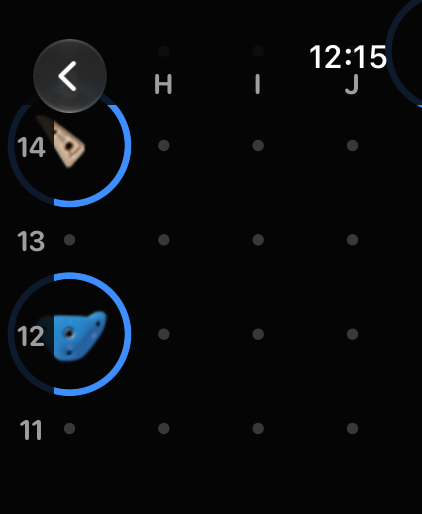
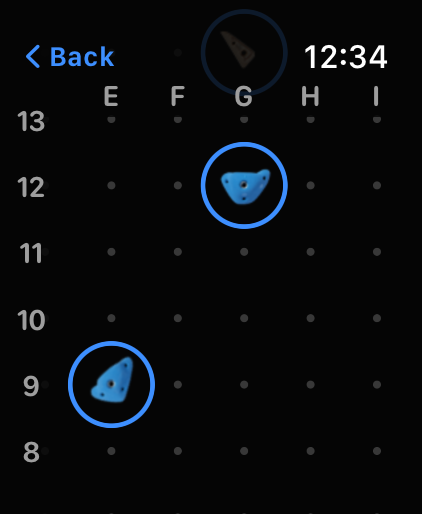
Preview: centred board, pan past edges, small Back on the clock row
- The board is centred at full view, with a little room at the bottom.
- Drawing and panning now use the same (full-screen) size; the pan limit
  had been computed from the smaller safe-area size, cutting off column K.
- Pan 20 pt past every edge so corner holds clear the rounded screen.
- The round back button is replaced by a small "< Back" on the clock row.

Claude-Session: https://claude.ai/code/session_01UNtzuB1Yx7wH9bXjFYQqCe

diff --git a/Moon Dance Watch App/Views/Preview/ProblemPreviewView.swift b/Moon Dance Watch App/Views/Preview/ProblemPreviewView.swift
@@ -5,52 +5,54 @@ import SwiftUI
 /// problem's holds, each ringed in its role's color (green start, blue hand,
 /// red finish), with A–K and 1–18 around the edge.
 ///
-/// Turn the Digital Crown to zoom (about the middle of the screen), drag to pan,
-/// double-tap to see the whole board again.
+/// Turn the Digital Crown to zoom (about the middle of the screen), drag to pan
+/// (a little past every edge, so corners clear the screen's rounding), double-tap
+/// to see the whole board again. A small "Back" on the clock's line goes back.
 struct ProblemPreviewView: View {
     let problemID: String
 
     @Environment(\.modelContext) private var context
+    @Environment(Router.self) private var router
     @State private var problem: Problem?
     @State private var zoom = 1.0
     @State private var centre = PreviewGeometry.boardCentre
     @State private var dragStart: CGPoint?
-    @State private var size = CGSize(width: 1, height: 1)
     @FocusState private var crownFocused: Bool
 
-    private var geometry: PreviewGeometry {
-        PreviewGeometry(size: size, zoom: zoom, centre: centre)
-    }
-
     var body: some View {
-        Canvas { context, size in
-            guard let problem else { return }
-            let geometry = PreviewGeometry(size: size, zoom: zoom, centre: centre)
-            Self.draw(problem, geometry: geometry, in: &context)
+        // One size (the whole screen) for drawing, panning and zoom limits.
+        GeometryReader { proxy in
+            let size = proxy.size
+            Canvas { context, canvasSize in
+                guard let problem else { return }
+                let geometry = PreviewGeometry(size: canvasSize, zoom: zoom, centre: centre)
+                Self.draw(problem, geometry: geometry, in: &context)
+            }
+            .contentShape(Rectangle())
+            .gesture(pan(size: size))
+            .onTapGesture(count: 2) {
+                withAnimation(.snappy) {
+                    zoom = 1
+                    centre = PreviewGeometry.boardCentre
+                }
+            }
+            .onChange(of: zoom) { centre = PreviewGeometry(size: size, zoom: zoom, centre: centre).centre }
+            .accessibilityElement()
+            .accessibilityIdentifier("problemPreview")
+            .accessibilityLabel(problem.map { "Hold pictures for \($0.name)" } ?? "Problem preview")
+            .accessibilityValue("Zoom \(Int((zoom * 100).rounded())) percent")
+            .accessibilityHint("Turn the Digital Crown to zoom, drag to look around, double-tap to reset")
         }
         .background(Theme.background)
         .ignoresSafeArea()
-        .onGeometryChange(for: CGSize.self) { $0.size } action: { size = $0 }
-        .contentShape(Rectangle())
-        .gesture(pan)
-        .onTapGesture(count: 2) {
-            withAnimation(.snappy) {
-                zoom = 1
-                centre = PreviewGeometry.boardCentre
-            }
-        }
+        .overlay(alignment: .topLeading) { backButton }
+        .toolbar(.hidden, for: .navigationBar)
         .focusable()
         .focused($crownFocused)
         .focusEffectDisabled()
         .digitalCrownRotation($zoom, from: PreviewGeometry.zoomRange.lowerBound,
                               through: PreviewGeometry.zoomRange.upperBound,
                               sensitivity: .low, isContinuous: false, isHapticFeedbackEnabled: false)
-        .onChange(of: zoom) { centre = geometry.clamped(centre) }
-        .accessibilityElement()
-        .accessibilityIdentifier("problemPreview")
-        .accessibilityLabel(problem.map { "Hold pictures for \($0.name)" } ?? "Problem preview")
-        .accessibilityValue("Zoom \(Int((zoom * 100).rounded())) percent")
-        .accessibilityHint("Turn the Digital Crown to zoom, drag to look around, double-tap to reset")
         .onAppear {
             problem = SessionModel.problem(id: problemID, context: context)
             crownFocused = true
@@ -63,9 +65,33 @@ struct ProblemPreviewView: View {
         }
     }
 
-    private var pan: some Gesture {
+    /// Small text on the clock's line instead of the big round back button, so the
+    /// board gets the room. Lines up with the problem name on Session.
+    private var backButton: some View {
+        Button {
+            router.pop()
+        } label: {
+            HStack(spacing: 2) {
+                Image(systemName: "chevron.left")
+                Text("Back")
+            }
+            .font(.footnote.weight(.semibold))
+            .foregroundStyle(Theme.blue)
+            .frame(minHeight: SessionView.Header.height)
+            .padding(.trailing, 8)
+            .contentShape(Rectangle())
+        }
+        .buttonStyle(.plain)
+        .padding(.top, SessionView.Header.top)
+        .padding(.leading, SessionView.Header.leading - 4)
+        .ignoresSafeArea()
+        .accessibilityIdentifier("previewBack")
+    }
+
+    private func pan(size: CGSize) -> some Gesture {
         DragGesture(minimumDistance: 4)
             .onChanged { value in
+                let geometry = PreviewGeometry(size: size, zoom: zoom, centre: centre)
                 let start = dragStart ?? geometry.centre
                 dragStart = start
                 let scale = geometry.scale
@@ -153,14 +179,19 @@ struct ProblemPreviewView: View {
 nonisolated struct PreviewGeometry {
     static let gutterLeft = 1.0
     static let gutterTop = 1.0
-    /// Space on the right and bottom so rings on column K and row 1 aren't cut off.
+    /// Space on the right and bottom so rings on column K and row 1 fit.
     static let margin = 0.25
     static let boardWidth = Double(GridPosition.columns) + gutterLeft + margin
     static let boardHeight = Double(GridPosition.rows) + gutterTop + margin
     static let boardCentre = CGPoint(x: boardWidth / 2, y: boardHeight / 2)
     static let zoomRange: ClosedRange<Double> = 1...4
-    /// Room left at the top for the back button and clock, in points.
-    static let topInset: CGFloat = 30
+    /// Room left at the top for Back and the clock, in points.
+    static let topInset: CGFloat = 36
+    /// Room at the bottom, so row 1 sits clear of the screen's rounded corners.
+    static let bottomInset: CGFloat = 8
+    /// How far (in points) you can pan past each edge of the board, so holds in the
+    /// corners can be moved clear of the screen's rounding.
+    static let overscroll: CGFloat = 20
     /// Ring radius, in cells.
     static let ringRadius = 0.62
 
@@ -178,7 +209,8 @@ nonisolated struct PreviewGeometry {
 
     /// The area the whole board fits in at zoom 1: below the clock line.
     var viewport: CGRect {
-        CGRect(x: 0, y: Self.topInset, width: size.width, height: max(1, size.height - Self.topInset))
+        CGRect(x: 0, y: Self.topInset, width: size.width,
+               height: max(1, size.height - Self.topInset - Self.bottomInset))
     }
 
     var fitScale: CGFloat { min(viewport.width / Self.boardWidth, viewport.height / Self.boardHeight) }
@@ -195,19 +227,18 @@ nonisolated struct PreviewGeometry {
                     boardY: Self.gutterTop + CGFloat(GridPosition.rows - row) + 0.5)
     }
 
-    /// Keeps the board on screen: where it's wider than the screen, no further
-    /// than its edge. Where it fits across, it sits against the right edge, clear
-    /// of the round back button at the top left.
+    /// Keeps the board on screen. Along an axis where it's bigger than the
+    /// viewport you can pan until its edge meets the viewport's edge; where it fits,
+    /// it stays centred. Either way you can go `overscroll` points further.
     func clamped(_ point: CGPoint) -> CGPoint {
-        let halfWidth = viewport.width / (2 * scale)
-        let halfHeight = viewport.height / (2 * scale)
-        let x = Self.boardWidth <= 2 * halfWidth
-            ? Self.boardWidth - halfWidth
-            : min(max(point.x, halfWidth), Self.boardWidth - halfWidth)
-        let y = Self.boardHeight <= 2 * halfHeight
-            ? Self.boardHeight / 2
-            : min(max(point.y, halfHeight), Self.boardHeight - halfHeight)
-        return CGPoint(x: x, y: y)
+        let over = Self.overscroll / scale
+        func axis(_ value: CGFloat, board: CGFloat, half: CGFloat) -> CGFloat {
+            let low = min(half, board / 2) - over
+            let high = max(board - half, board / 2) + over
+            return min(max(value, low), high)
+        }
+        return CGPoint(x: axis(point.x, board: Self.boardWidth, half: viewport.width / (2 * scale)),
+                       y: axis(point.y, board: Self.boardHeight, half: viewport.height / (2 * scale)))
     }
 
     /// Where the column letters go: in their gutter, or pinned under the clock line

diff --git a/Moon Dance Watch AppTests/PreviewTests.swift b/Moon Dance Watch AppTests/PreviewTests.swift
@@ -51,42 +51,52 @@ struct HoldImagesTests {
 struct PreviewGeometryTests {
     private let watch = CGSize(width: 205, height: 251)
 
-    @Test func wholeBoardFitsAtZoomOne() {
+    @Test func wholeBoardFitsCentredAtZoomOne() {
         let g = PreviewGeometry(size: watch, zoom: 1, centre: PreviewGeometry.boardCentre)
         let topLeft = g.screenPoint(column: 0, row: 18)
         let bottomRight = g.screenPoint(column: 10, row: 1)
         let ring = g.scale * PreviewGeometry.ringRadius
         #expect(topLeft.y - g.scale / 2 >= PreviewGeometry.topInset - 0.5)
-        #expect(bottomRight.y + ring <= watch.height, "row 1 rings fit")
-        #expect(topLeft.x - g.scale / 2 >= 0)
+        #expect(bottomRight.y + ring <= watch.height - PreviewGeometry.bottomInset, "row 1 rings fit")
         #expect(bottomRight.x + ring <= watch.width, "column K rings fit")
-        #expect(watch.width - (bottomRight.x + g.scale / 2) < g.scale / 2, "board sits against the right edge")
-        // The back button sits top left: column A (and its letter) start well clear of it.
-        #expect(topLeft.x - g.scale / 2 > 55)
-        // Nothing to pan at zoom 1.
-        #expect(g.clamped(CGPoint(x: 0, y: 0)) == g.centre)
+        // Centred: the same space either side of the board (gutter and margin included).
+        let left = g.screenPoint(boardX: 0, boardY: 0).x
+        let right = watch.width - g.screenPoint(boardX: PreviewGeometry.boardWidth, boardY: 0).x
+        #expect(abs(left - right) < 0.001)
+    }
+
+    @Test func zoomOneStillPansALittle() {
+        let g = PreviewGeometry(size: watch, zoom: 1, centre: PreviewGeometry.boardCentre)
+        let moved = PreviewGeometry(size: watch, zoom: 1, centre: CGPoint(x: -100, y: -100))
+        let shift = moved.screenPoint(boardX: 0, boardY: 0).x - g.screenPoint(boardX: 0, boardY: 0).x
+        #expect(abs(shift - PreviewGeometry.overscroll) < 0.001)
     }
 
     @Test func zoomScalesAboutTheMiddleOfTheScreen() {
-        let one = PreviewGeometry(size: watch, zoom: 2, centre: PreviewGeometry.boardCentre)
+        let two = PreviewGeometry(size: watch, zoom: 2, centre: PreviewGeometry.boardCentre)
         let three = PreviewGeometry(size: watch, zoom: 3, centre: PreviewGeometry.boardCentre)
-        #expect(abs(three.scale - one.scale * 1.5) < 0.001)
+        #expect(abs(three.scale - two.scale * 1.5) < 0.001)
         let middle = PreviewGeometry.boardCentre
-        #expect(one.screenPoint(boardX: middle.x, boardY: middle.y) == three.screenPoint(boardX: middle.x, boardY: middle.y))
+        #expect(two.screenPoint(boardX: middle.x, boardY: middle.y) == three.screenPoint(boardX: middle.x, boardY: middle.y))
     }
 
-    @Test func panningStopsAtTheBoardEdges() {
-        let g = PreviewGeometry(size: watch, zoom: 4, centre: PreviewGeometry.boardCentre)
-        let farTopLeft = g.clamped(CGPoint(x: -50, y: -50))
-        let farBottomRight = g.clamped(CGPoint(x: 500, y: 500))
-        // The board's corners land exactly on the viewport's corners.
-        let shownTopLeft = PreviewGeometry(size: watch, zoom: 4, centre: farTopLeft).screenPoint(boardX: 0, boardY: 0)
-        #expect(abs(shownTopLeft.x) < 0.001)
-        #expect(abs(shownTopLeft.y - PreviewGeometry.topInset) < 0.001)
-        let shownBottomRight = PreviewGeometry(size: watch, zoom: 4, centre: farBottomRight)
-            .screenPoint(boardX: PreviewGeometry.boardWidth, boardY: PreviewGeometry.boardHeight)
-        #expect(abs(shownBottomRight.x - watch.width) < 0.001)
-        #expect(abs(shownBottomRight.y - watch.height) < 0.001)
+    /// Zoomed in, every edge can be reached, and a little past it, so column K,
+    /// row 1 and the corners are never cut off.
+    @Test func panningReachesEveryEdgeAndALittleBeyond() {
+        let over = PreviewGeometry.overscroll
+        for zoom in [2.0, 3.0, 4.0] {
+            let topLeft = PreviewGeometry(size: watch, zoom: zoom, centre: CGPoint(x: -50, y: -50))
+            let corner = topLeft.screenPoint(boardX: 0, boardY: 0)
+            #expect(abs(corner.x - over) < 0.001)
+            #expect(abs(corner.y - (PreviewGeometry.topInset + over)) < 0.001)
+
+            let bottomRight = PreviewGeometry(size: watch, zoom: zoom, centre: CGPoint(x: 500, y: 500))
+            let far = bottomRight.screenPoint(boardX: PreviewGeometry.boardWidth, boardY: PreviewGeometry.boardHeight)
+            #expect(abs(far.x - (watch.width - over)) < 0.001)
+            #expect(abs(far.y - (watch.height - PreviewGeometry.bottomInset - over)) < 0.001)
+            let k1 = bottomRight.screenPoint(column: 10, row: 1)
+            #expect(k1.x + bottomRight.scale * PreviewGeometry.ringRadius < watch.width - over)
+        }
     }
 
     @Test func labelsPinWhenTheirGutterScrollsOff() {

diff --git a/Moon Dance Watch AppUITests/SessionUITests.swift b/Moon Dance Watch AppUITests/SessionUITests.swift
@@ -97,7 +97,7 @@ final class SessionUITests: XCTestCase {
         let zoomed = expectation(for: NSPredicate(format: "value != %@", before ?? ""), evaluatedWith: preview)
         wait(for: [zoomed], timeout: 5)
 
-        app.navigationBars.buttons.firstMatch.tap()
+        app.buttons["previewBack"].tap()
         assertCrownChangesProblem(app, "after back from the preview")
     }
 }

diff --git a/README.md b/README.md
@@ -77,9 +77,11 @@ edge. Both hold sets have pictures: 2016 (sets A and B and the original school
 holds) and 2024 (sets D, E and F and the wooden holds).
 
 - **Digital Crown** — zoom in and out (up to 4×).
-- **Drag** — pan around when zoomed in. The letters and numbers stay pinned to the
-  top and left edges so you always know where you are.
+- **Drag** — pan around, a little past every edge so holds in the corners clear the
+  screen's rounding. Zoomed in, the letters and numbers stay pinned to the top and
+  left edges so you always know where you are.
 - **Double-tap** — back to the whole board.
+- **‹ Back** (top left, on the clock's line) — back to Session.
 
 <br clear="right">
 
@@ -298,7 +300,7 @@ Both targets keep `ITSAppUsesNonExemptEncryption = NO` and are signed with the p
 
 ## Tests
 
-- **65 unit tests** (Swift Testing): the board protocol and LED numbering, the problem
+- **66 unit tests** (Swift Testing): the board protocol and LED numbering, the problem
   snapshot and its loading, list ordering and pinning, logging, undo and unsend,
   History's day grouping, CSV export, settings, Bluetooth failure messages, the hold
   pictures (every problem hold has one) and the preview's zoom and pan maths.
